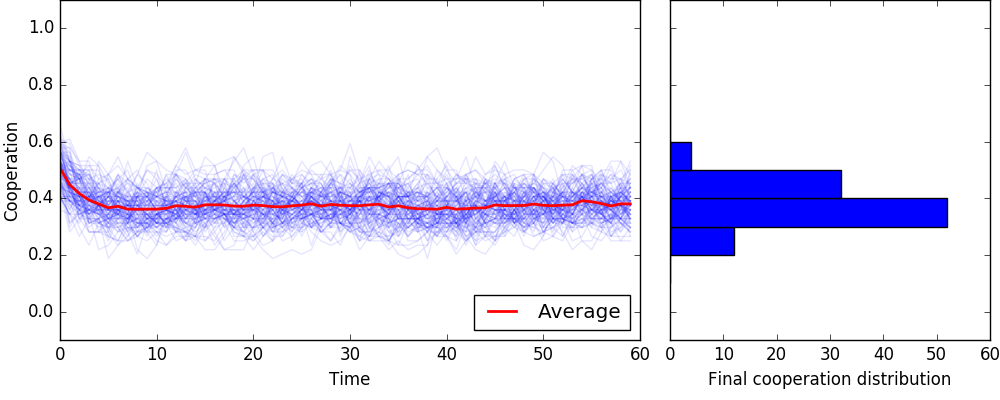
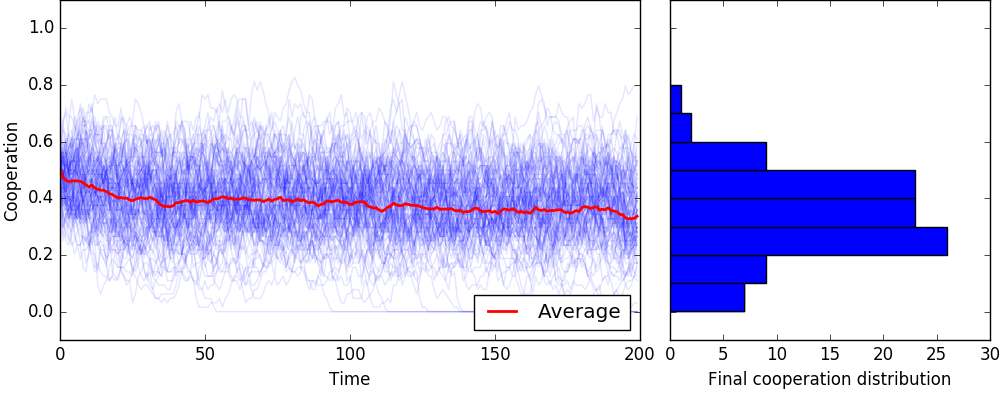
[fix] snowdrift results

diff --git a/main.tex b/main.tex
@@ -211,12 +211,15 @@ we will choose either one at random.
 \subsection{Moore neighbourhood comparison}
 There are several key trends to notice on figure \ref{conv_sd}:
 \begin{enumerate}
-	\item The distribution of final cooperation levels is not bimodal
-		anymore, it only has one mode
-	\item There are no runs reaching 100\% or 0\% cooperation levels
+	\item The bimodality of the final cooperation distribution evolves; 
+		early on, there is only one mode but as simulations manage to
+		reach either full or zero cooperation, two modes emerge
 	\item In the prisoners dilemma, the average for the runs reaching a
-		non-zero cooperation level was around 85\% percent; it is 
-		much lower here at just less than 40\%.
+		non-zero cooperation level was around 85\% percent; in this
+		case, it is harder to estimate. as it looks like the cooperation
+		converges at 40\% for large grids, but we could argue that 
+		this level could change much later as the simulations reach
+		100\% or 0\% cooperation just like in the case of the 4x4 grid
 	\item \textbf{Perhaps the most interesting one}, the standard 
 		deviation of the final cooperation distribution seems to
 		decrease as the size of the grid grows.
@@ -248,19 +251,24 @@ coin many times, the probability of having only heads is very low,
 the probability of a quarter of the cells choosing to defect at the same time
 is not so low for the 4x4 grid but is quite low for the 50x50 grid. \\
 
-Let us now look at a run. Seeing that the simulations seem to reach a stationary
-state within about 5 iterations, we will only plot the first 6 iterations
-instead of iterations 0, 1, 5, 10, 20 and 50 for the prisoners dilemma.
+However, we could expect that after a very long time, all the runs will end up
+taking a path that will take them to 100\% or 0\% cooperation. As the grid
+grows larger, this path becomes more and more unlikely of course, and this is
+why we see the runs converging to 100\% and 0\% on the 4x4 grid, and we start
+seeing runs converging to 0\% on the 8x8 grid. This is only a hypothesis 
+though.\\
+
+Let us now look at a run.
 
 \begin{figure}[H]
 	\centering
 	\subfloat[][$t=0$]{\includegraphics[width=.3\textwidth]{./fig/sd_s0.png}}
 	\subfloat[][$t=1$]{\includegraphics[width=.3\textwidth]{./fig/sd_s1.png}}
-	\subfloat[][$t=2$]{\includegraphics[width=.3\textwidth]{./fig/sd_s2.png}}
+	\subfloat[][$t=5$]{\includegraphics[width=.3\textwidth]{./fig/sd_s2.png}}
 	\\
-	\subfloat[][$t=3$]{\includegraphics[width=.3\textwidth]{./fig/sd_s3.png}}
-	\subfloat[][$t=4$]{\includegraphics[width=.3\textwidth]{./fig/sd_s4.png}}
-	\subfloat[][$t=5$]{\includegraphics[width=.3\textwidth]{./fig/sd_s5.png}}
+	\subfloat[][$t=10$]{\includegraphics[width=.3\textwidth]{./fig/sd_s3.png}}
+	\subfloat[][$t=20$]{\includegraphics[width=.3\textwidth]{./fig/sd_s4.png}}
+	\subfloat[][$t=50$]{\includegraphics[width=.3\textwidth]{./fig/sd_s5.png}}
 	\caption{Evolution of one run on a 50x50 grid with the snowdrift game
 	and the Moore neighbourhood}
 	\label{sdrun}
@@ -273,9 +281,10 @@ not pick it as our comparison cell, and if we do pick it, we won't copy the
 neighbouring cell's behaviour with certainty.
 
 \subsection{Von Neumann neighbourhood}
-Figure \ref{sd_vn50} shows that the Von Neumann neighbourhood doesn't make 
-too much of a difference with the Moore neighbourhood in the context of the 
-snowdrift game.
+Figure \ref{sd_vn50} shows that the Von Neumann neighbourhood impacts not
+only the speed at which the simulations converge to a stationary state, but
+also the cooperation level average at convergence; which is at 20\% instead
+of 40\%. 
 \begin{figure}[H]
 	\centering
 	\includegraphics[width=0.7\textwidth]{./fig/sd_vn_50.png}
